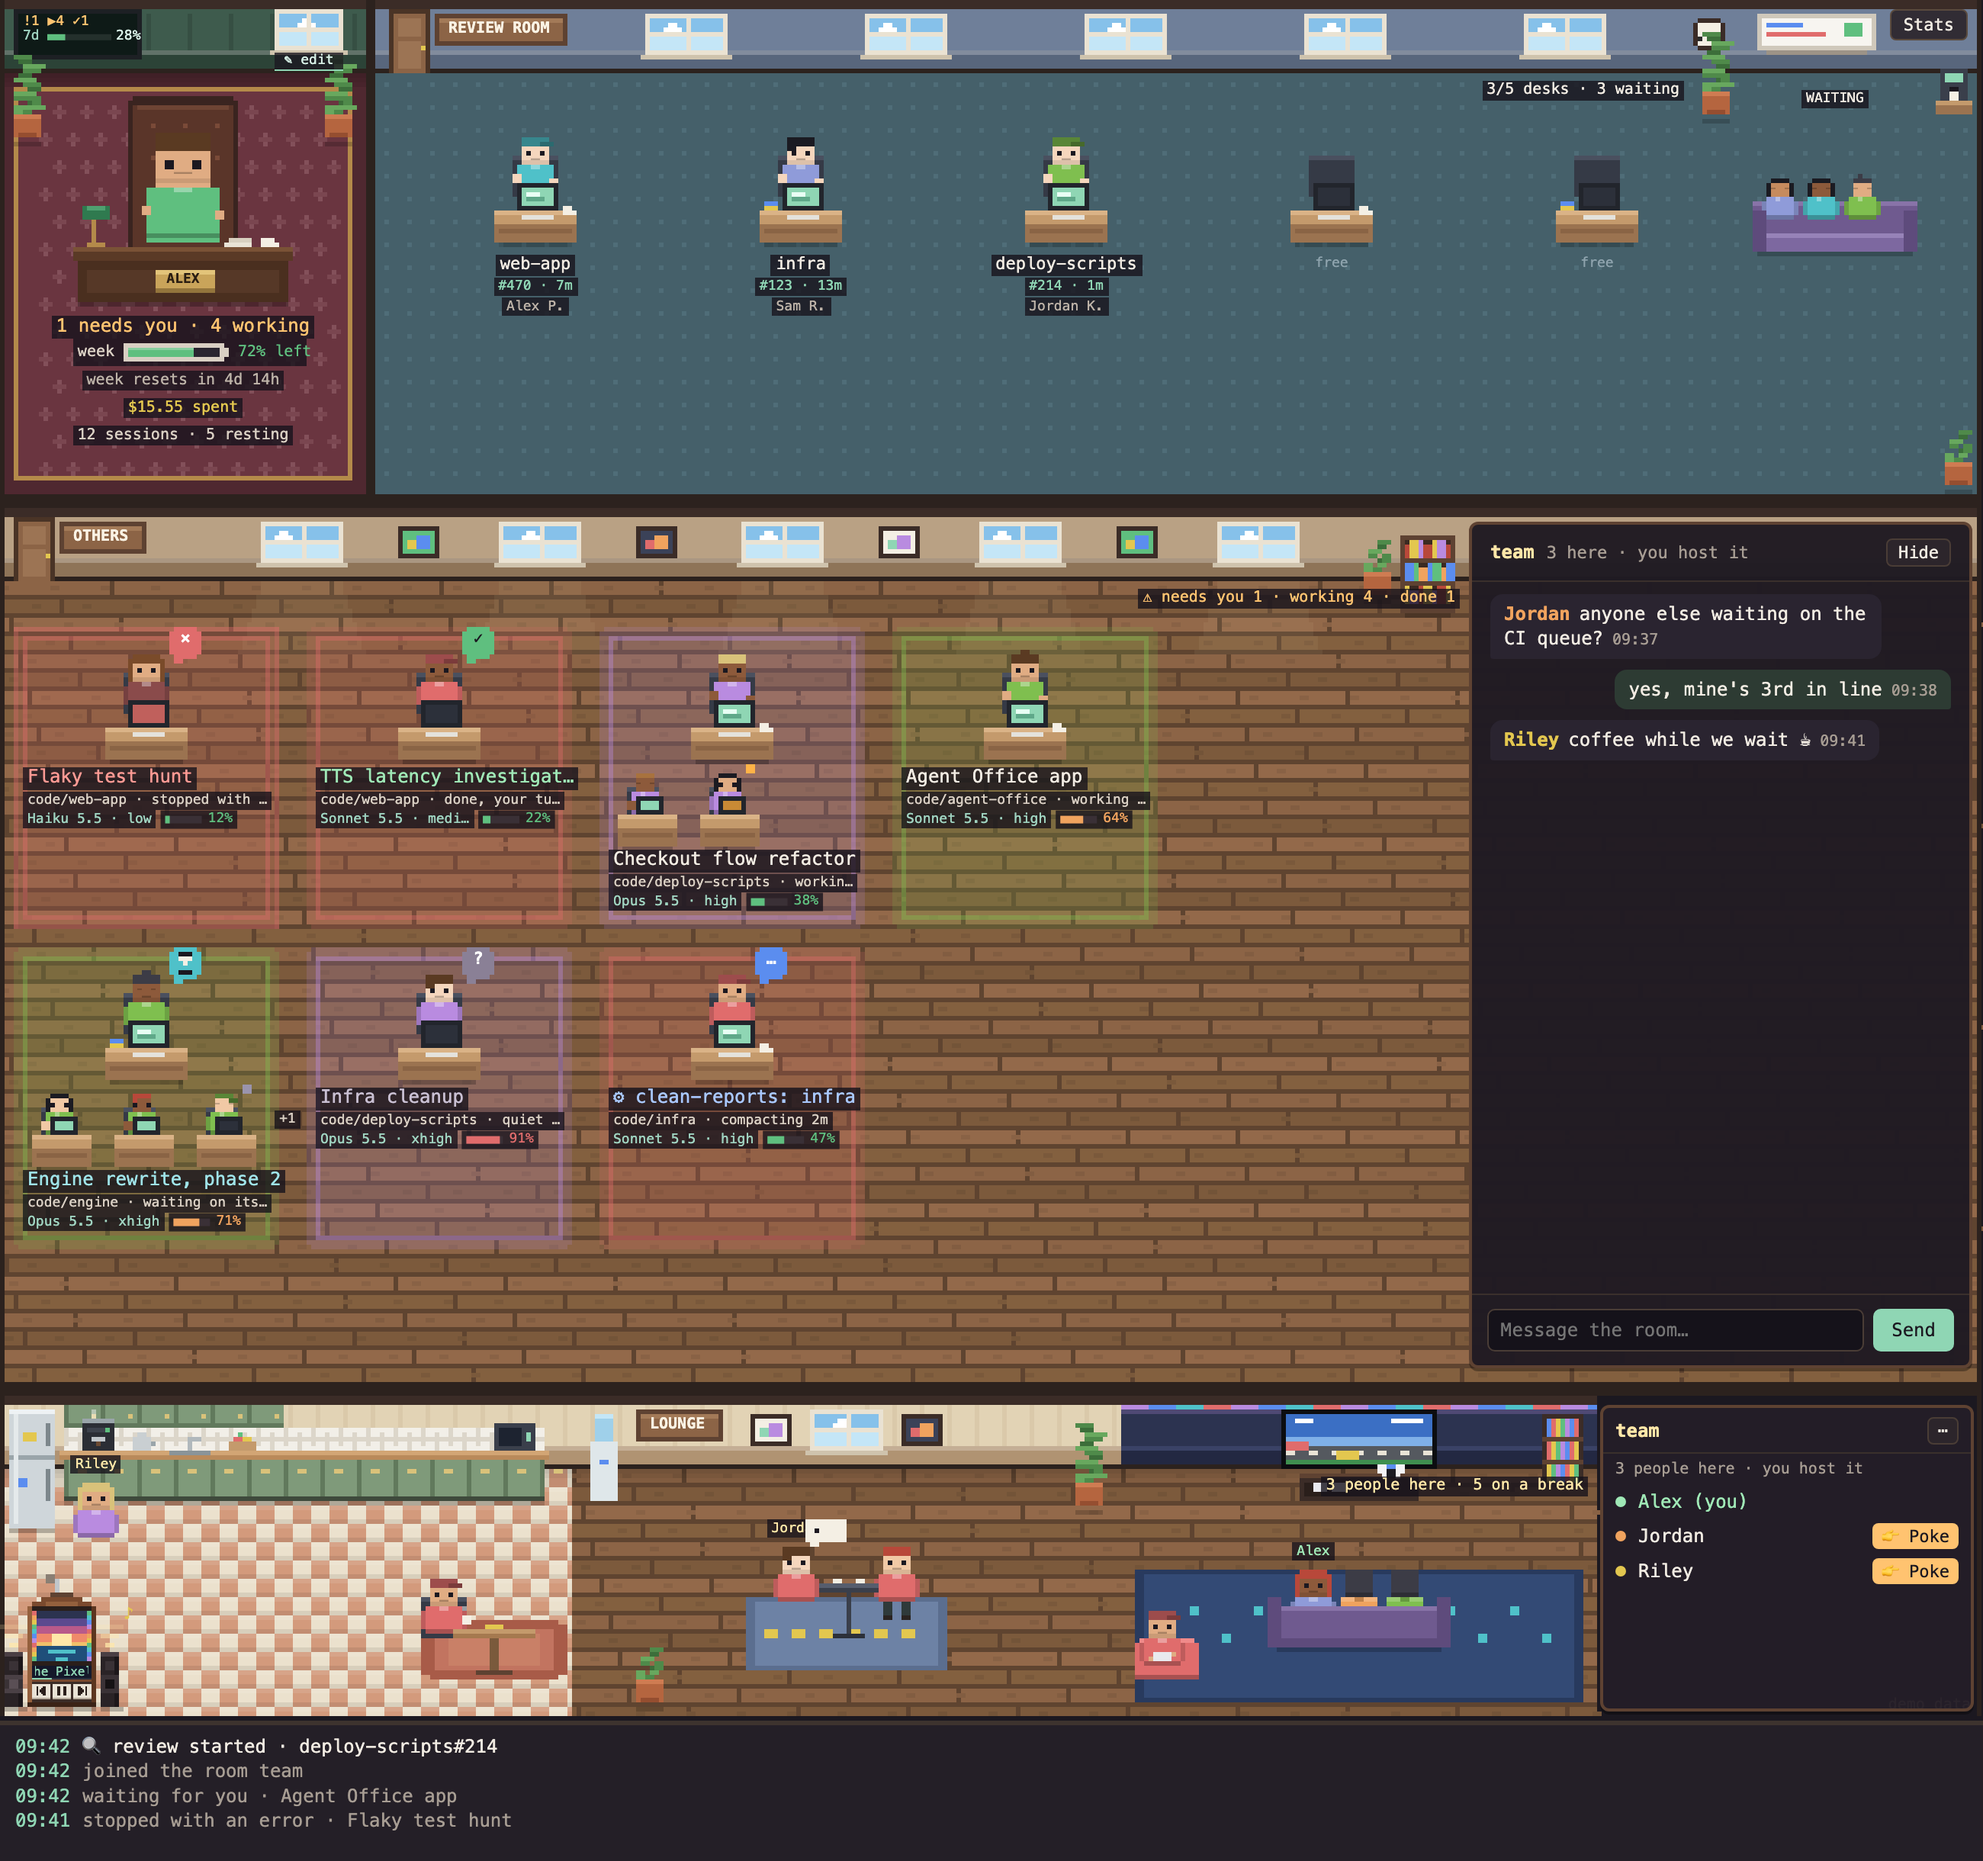
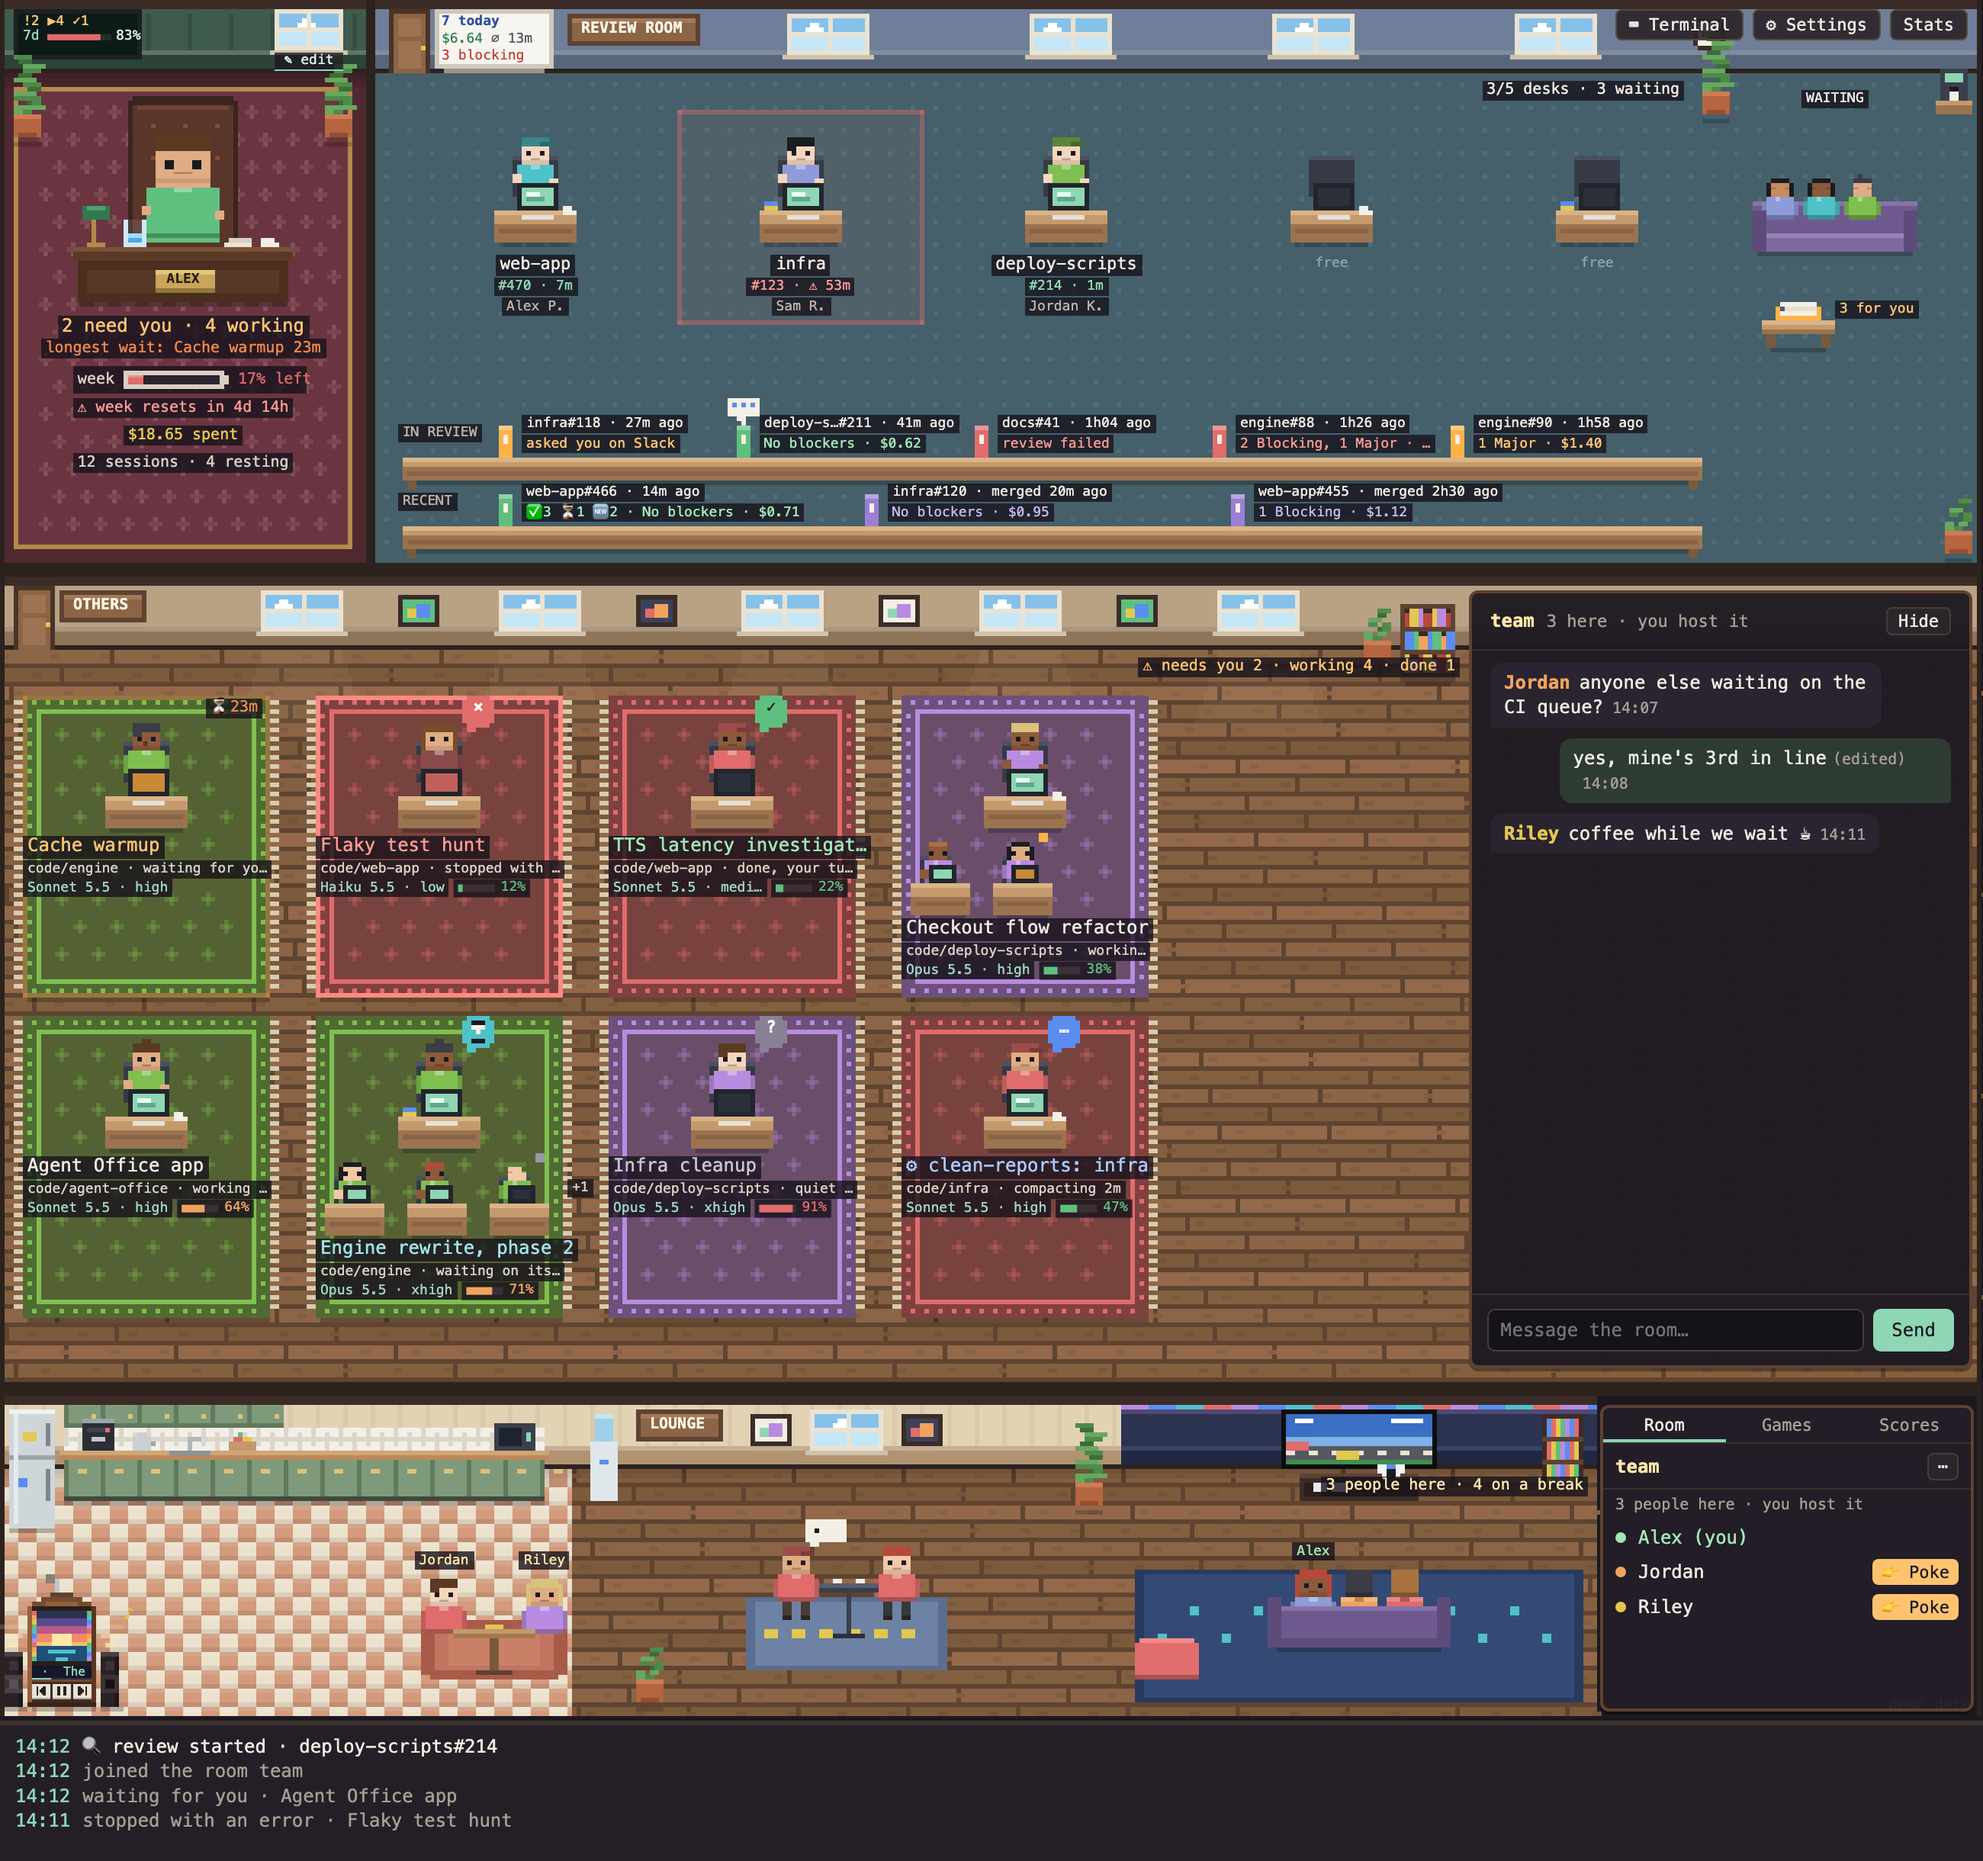
Docs and tour: water glass, Settings button, whiteboard, terminal (#48)
The screenshot still showed the whiteboard under the Stats button and none
of the newer pieces. A new one from the demo page (?buttons also shows the
app-only Settings and Terminal buttons, for screenshots): the whiteboard by
the review room's door, the glass on the manager's desk, the top buttons.

- Welcome tour: the glass in "Your room", the whiteboard in "Review room",
  a Terminal item, and Settings says where its button is and that it holds
  the water reminder.
- README: the glass under Manager's room, the Settings button under
  "make it yours", and the screenshot's description.
- AGENTS.md: tell the person about Settings and the water reminder.

Verified: headless Chrome render at 1300x1220 @2x; the tour's last card
fits; dev build and check-public clean.

diff --git a/web/office.html b/web/office.html
@@ -1831,8 +1831,8 @@ let welcomeSeen = false, welcomeStep = 0;
 const WELCOME = [
   { title: "Welcome to Agent Office", sub: "Your Claude Code sessions as a little pixel office: who is working, who is waiting for you, and who is on a break, at a glance.",
     items: [["🖥", "The office", "every session at a desk, with what it is doing, its model, effort and how full its context is. Click one to jump to it; right-click for its PR, its folder, or to hide it."],
-            ["👔", "Your room", "you at the manager's desk, with how much of your plan is left this week, when it resets and what the sessions cost."],
-            ["🔍", "Review room", "optional: PR reviews in progress at their desks, the queue waiting on the sofa."],
+            ["👔", "Your room", "you at the manager's desk, with how much of your plan is left this week, when it resets and what the sessions cost. The glass of water on the desk turns the water reminder on or off."],
+            ["🔍", "Review room", "optional: PR reviews in progress at their desks, the queue waiting on the sofa, and today's tally on the whiteboard by the door."],
             ["☕", "The lounge", "agents with nothing to do take a break here. The jukebox plays what is on in Spotify, Music or a browser, with its buttons. G opens the mini-games: races, fishing, Bug Whack, ping-pong, archery and Sky Patrol, alone or with the room."],
             ["👥", "A shared room", "optional: teammates on your network walk into your lounge. Chat, wave, high five, or poke someone."]],
     buttons: [["Next", "next", true]] },
@@ -1843,7 +1843,8 @@ const WELCOME = [
   { title: "You're all set", sub: "A few things worth knowing:",
     items: [["🖱", "Click", "an agent to bring its session to the front; a piece of the lounge to walk your character there."],
             ["⌨", "C", "shows or hides the chat when you are in a room. Hover your own message to edit or delete it."],
-            ["⚙", "Settings (⌘,)", "sounds, energy saver, the jukebox, open at login, daily update checks."],
+            ["⌨", "Terminal (⌃`)", "your own shell beside the office, with tabs (⌘T), on the side you pick."],
+            ["⚙", "Settings (top right, ⌘,)", "the water reminder with its hours and interval, sounds, energy saver, the jukebox, open at login, daily update checks."],
             ["👋", "This tour", "is in the Agent Office menu, if you want it again."]],
     buttons: [["Start", "done", true]] },
 ];
@@ -2249,6 +2250,8 @@ let lastDraw = 0;
 // ---------- demo (no app bridge) ----------
 if (!bridge) {
   document.getElementById("demo").textContent = "demo data";
+  // ?buttons: also the app-only buttons (Settings, Terminal) along the top, for screenshots; they do nothing here
+  if (new URLSearchParams(location.search).has("buttons")) { setBtn.style.display = termBtn.style.display = "block"; placeUpdate(); }
   const t0 = Date.now() / 1000, hm = m => { const d = new Date(Date.now() - m * 60000); return String(d.getHours()).padStart(2, "0") + ":" + String(d.getMinutes()).padStart(2, "0"); };
   // an invented 13×13 cover: a sunset over the sea
   const demoCover = () => { if (demoCover.v) return demoCover.v; const c = document.createElement("canvas"); c.width = c.height = 13; const k = c.getContext("2d");

diff --git a/README.md b/README.md
@@ -2,7 +2,7 @@
 
 A small macOS window that shows your Claude Code agents at work, as a pixel-art office.
 
-![Agent Office: the manager in the corner office with its edit button, three PR reviews at their desks and three in the queue on the sofa; Claude Code sessions with their subagents, each with its state, model and effort, beside the shared room's chat; the lounge at the bottom with the jukebox playing in the kitchen corner, teammates on a break and the list of people in the room, each with a Poke button](docs/screenshot.png)
+![Agent Office: the manager in the corner office with its edit button and a glass of water on the desk, the whiteboard with today's reviews by the review room's door, the Terminal, Settings and Stats buttons at the top right, three PR reviews at their desks and three in the queue on the sofa; Claude Code sessions with their subagents, each with its state, model and effort, beside the shared room's chat; the lounge at the bottom with the jukebox playing in the kitchen corner, teammates on a break and the list of people in the room, each with a Poke button](docs/screenshot.png)
 
 *Demo data. Open `web/office.html` in a browser to see it live.*
 
@@ -32,6 +32,8 @@ tour is in the Agent Office menu (Welcome Tour…) to see again. Then make it yo
   picture, the manager at the desk and your character in a shared room.
 - **Create a room** or **Join a room** in the lounge's right-hand panel (or the **Room** menu):
   share the lounge and a chat with teammates on your network.
+- **⚙ Settings** at the top right, next to Stats (or ⌘,): the water reminder with its hours and
+  interval, sounds, the jukebox, open at login and daily update checks.
 
 ### Or let your agent set it up
 
@@ -71,7 +73,8 @@ Missing a prerequisite: `xcode-select --install` for the command-line tools, `br
   desk: who needs you and who is working, the session that has waited longest for you
   (`longest wait: Checkout flow 23m`, in the same colours as its ⏳), your weekly usage as a battery that drains
   as you use it (orange, then red and blinking as they run low), when the week resets, and
-  what the open sessions have cost. Under 20% of the week left (`planLowPercent`, see
+  what the open sessions have cost. A glass of water on the desk is the water reminder (see
+  *Settings*): it empties toward the next reminder, and a click turns it on or off. Under 20% of the week left (`planLowPercent`, see
   *Configuration*) the battery, the wall screen's bar and the reset line turn red and blink (the
   stats screen's bar too), and the app shows one notification for that week ("Weekly plan: 17%
   left"), with a sound when **Play a sound** is on, the first time the window is on screen after

diff --git a/AGENTS.md b/AGENTS.md
@@ -94,6 +94,8 @@ welcome tour that asks for both (and Agent Office → Welcome Tour… opens it a
   password, never you.
 - **View → Terminal** (⌃`) opens their own shell next to the office, with tabs (⌘T) and a side
   of their choosing (View → Terminal Position).
+- **⚙ Settings** at the top right (or ⌘,) has the water reminder, with its hours and interval;
+  the glass on the manager's desk turns it on or off.
 
 ## Uninstall
 
